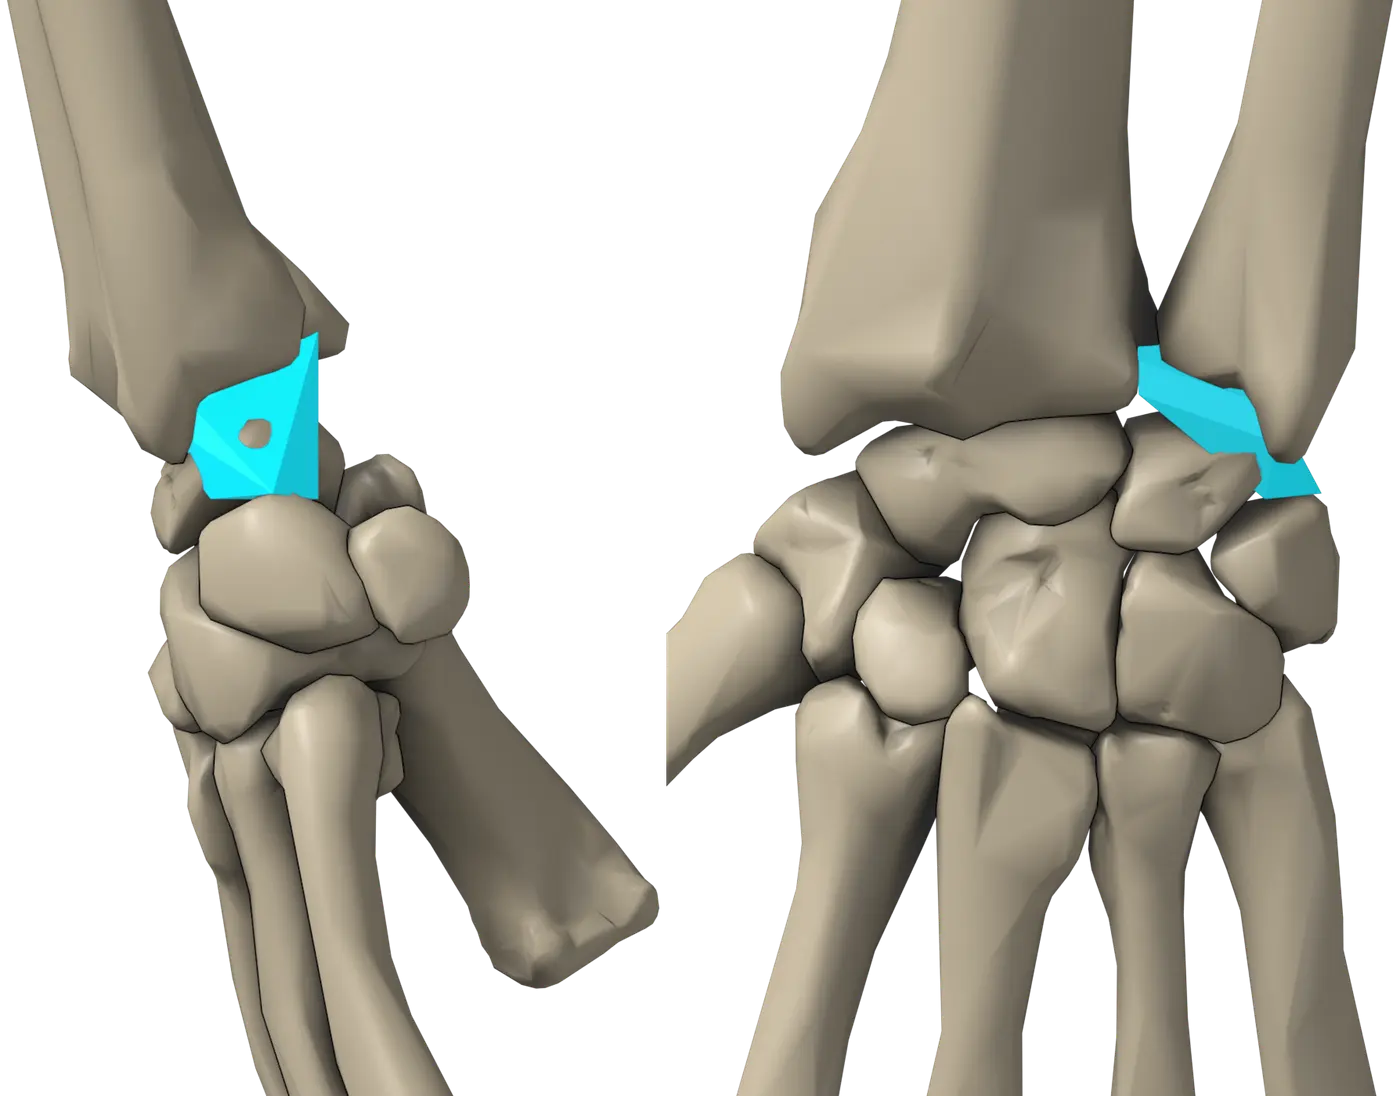
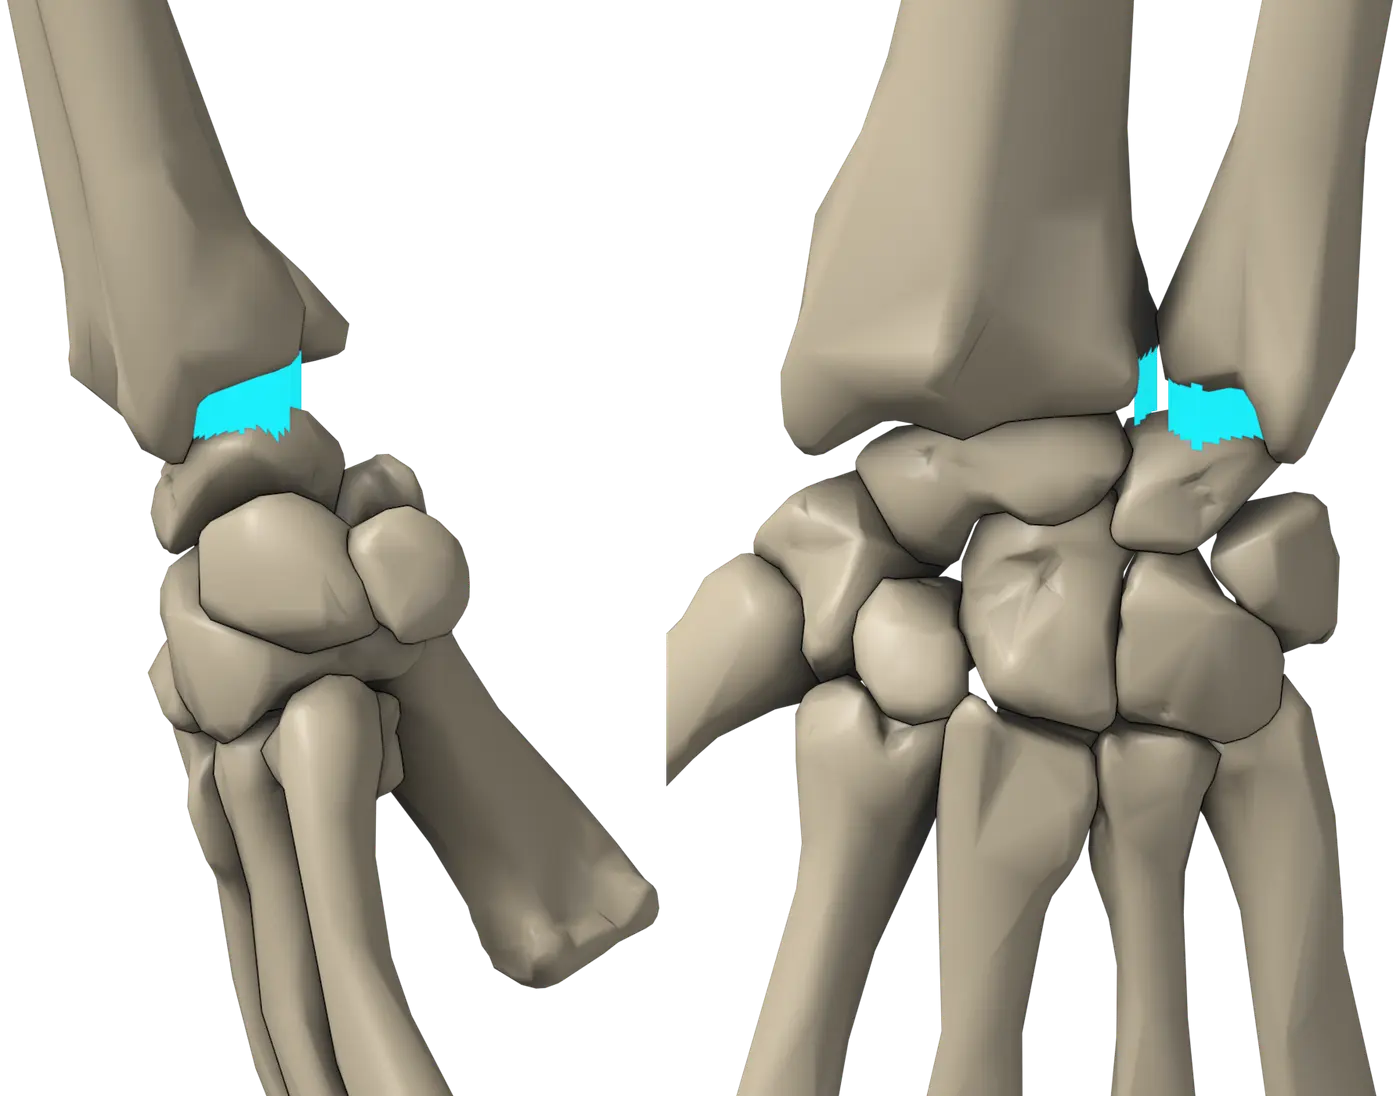
Build the TFCC as the gap between the ulna/radius and the lunate/triquetrum, so it touches them and goes through neither
A new build kind, 'gapfill': over a footprint, each vertical line runs up
to the upper bones' under-surface and down to the lower bones' upper
surface, and the solid is what lies between.

Changed region(s): [[0.7986, 0.3102, 0.9521, 0.4653], [0.1229, 0.3102, 0.2457, 0.4653]]

diff --git a/src/scripts/blender/renderMusclePanels.py b/src/scripts/blender/renderMusclePanels.py
@@ -355,6 +355,110 @@ def build_mesh(spec, mesh_name):
         bmesh.ops.convex_hull(out, input=vs)
         loose = [v for v in out.verts if not v.link_faces]
         bmesh.ops.delete(out, geom=loose, context="VERTS")
+    elif spec["kind"] == "gapfill":
+        # THE SPACE BETWEEN TWO SETS OF BONES, AND NOTHING ELSE. Over a
+        # footprint (world mm, x and y), a vertical line through each grid point
+        # meets the upper bones' under-surface and the lower bones' upper
+        # surface; the solid is what lies between. Its top IS the upper bones'
+        # surface and its bottom the lower bones', so it touches both and cannot
+        # pass through or wrap round either — the TFCC between the ulna and
+        # radius above and the lunate and triquetrum below (owner, 19 Oct 2026).
+        from mathutils.bvhtree import BVHTree
+
+        def tree(names):
+            bm_t = bmesh.new()
+            for n in names:
+                src = bpy.data.objects.get(n)
+                if not src:
+                    continue
+                tmp = src.data.copy()
+                tmp.transform(src.matrix_world)
+                bm_t.from_mesh(tmp)
+                bpy.data.meshes.remove(tmp)
+            t = BVHTree.FromBMesh(bm_t)
+            bm_t.free()
+            return t
+
+        upper, lower = tree(spec["upper"]), tree(spec["lower"])
+        foot = [(p[0] / 1000.0, p[1] / 1000.0) for p in spec["footprint"]]
+        step = float(spec.get("step", 0.8)) / 1000.0
+        max_gap = float(spec.get("maxGap", 12)) / 1000.0
+        inset = float(spec.get("inset", 0.2)) / 1000.0
+        z_hi, z_lo = spec["zRange"][1] / 1000.0, spec["zRange"][0] / 1000.0
+
+        def inside(x, y):
+            c = False
+            j = len(foot) - 1
+            for i in range(len(foot)):
+                xi, yi = foot[i]
+                xj, yj = foot[j]
+                if (yi > y) != (yj > y) and x < (xj - xi) * (y - yi) / (yj - yi) + xi:
+                    c = not c
+                j = i
+            return c
+
+        xs = [p[0] for p in foot]
+        ys = [p[1] for p in foot]
+        nx = int((max(xs) - min(xs)) / step) + 2
+        ny = int((max(ys) - min(ys)) / step) + 2
+        node = {}
+        for i in range(nx):
+            for j in range(ny):
+                x, y = min(xs) + i * step, min(ys) + j * step
+                if not inside(x, y):
+                    continue
+                # Up from below the joint to the upper bones' under-surface, then
+                # down from just under that to the first lower bone: the gap.
+                # (Down from above starts inside the shaft; up from below meets
+                # a carpal's distal face first.)
+                up = upper.ray_cast(mathutils.Vector((x, y, z_lo)), mathutils.Vector((0, 0, 1)))
+                if up[0] is None or up[0].z > z_hi:
+                    continue
+                down = lower.ray_cast(mathutils.Vector((x, y, up[0].z - 0.0001)), mathutils.Vector((0, 0, -1)))
+                if down[0] is None:
+                    continue
+                top, bot = up[0].z - inset, down[0].z + inset
+                if 0 < top - bot <= max_gap:
+                    node[(i, j)] = (x, y, top, bot)
+        # A line that grazes the side of a bone jumps to a far surface and draws
+        # a spike; a lone cell at the edge draws a tooth. Drop columns that stand
+        # out from their neighbours, and cells too short of neighbours to be
+        # part of the sheet, a few passes over.
+        jump = float(spec.get("maxJump", 1.2)) / 1000.0
+        for _ in range(int(spec.get("cleanPasses", 3))):
+            keep = {}
+            for (i, j), (x, y, top, bot) in node.items():
+                nb = [node[(i + di, j + dj)] for di in (-1, 0, 1) for dj in (-1, 0, 1)
+                      if (di or dj) and (i + di, j + dj) in node]
+                if len(nb) < 5:
+                    continue
+                tops = sorted(n[2] for n in nb)
+                bots = sorted(n[3] for n in nb)
+                if abs(top - tops[len(tops) // 2]) > jump or abs(bot - bots[len(bots) // 2]) > jump:
+                    continue
+                keep[(i, j)] = (x, y, top, bot)
+            node = keep
+        verts_top, verts_bot = {}, {}
+        for k, (x, y, top, bot) in node.items():
+            verts_top[k] = out.verts.new((x, y, top))
+            verts_bot[k] = out.verts.new((x, y, bot))
+        cells = [(i, j) for (i, j) in node if (i + 1, j) in node and (i, j + 1) in node and (i + 1, j + 1) in node]
+        cellset = set(cells)
+        for (i, j) in cells:
+            q = [(i, j), (i + 1, j), (i + 1, j + 1), (i, j + 1)]
+            out.faces.new([verts_top[k] for k in q])
+            out.faces.new([verts_bot[k] for k in reversed(q)])
+        # Walls on the outline: a cell edge with no cell on its other side.
+        for (i, j) in cells:
+            for a, b, nb in (((i, j), (i + 1, j), (i, j - 1)), ((i + 1, j), (i + 1, j + 1), (i + 1, j)),
+                             ((i + 1, j + 1), (i, j + 1), (i, j + 1)), ((i, j + 1), (i, j), (i - 1, j))):
+                if nb not in cellset:
+                    try:
+                        out.faces.new([verts_top[a], verts_bot[a], verts_bot[b], verts_top[b]])
+                    except ValueError:
+                        pass
+        bmesh.ops.delete(out, geom=[v for v in out.verts if not v.link_faces], context="VERTS")
+        print(f"[build] {mesh_name}: gap filled over {len(cells)} cells", flush=True)
     else:
         raise ValueError("unknown build kind: " + spec["kind"])
     bmesh.ops.recalc_face_normals(out, faces=out.faces)
